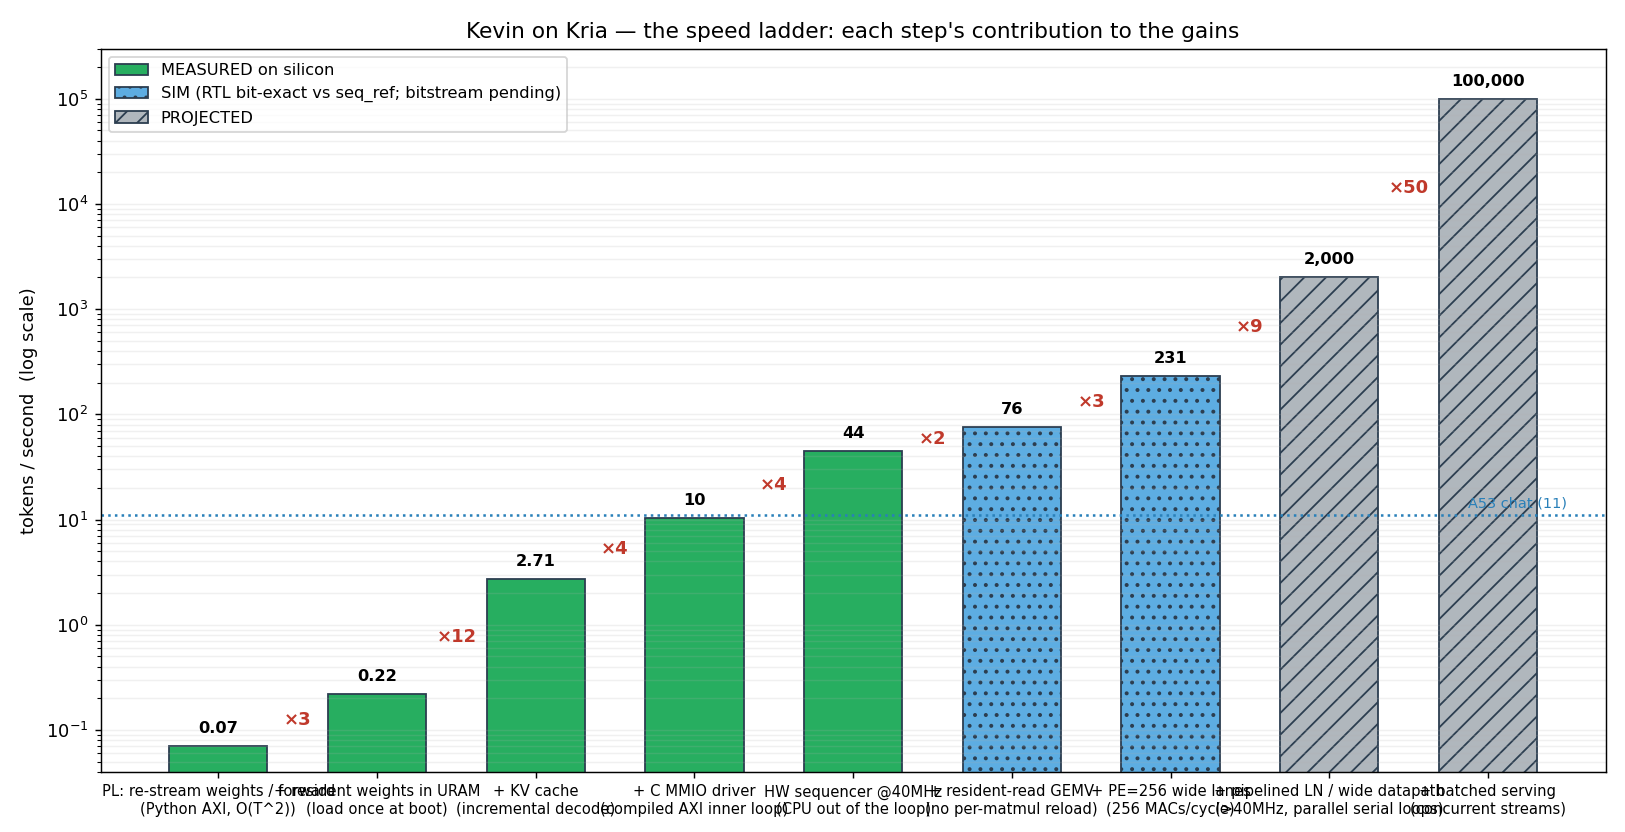
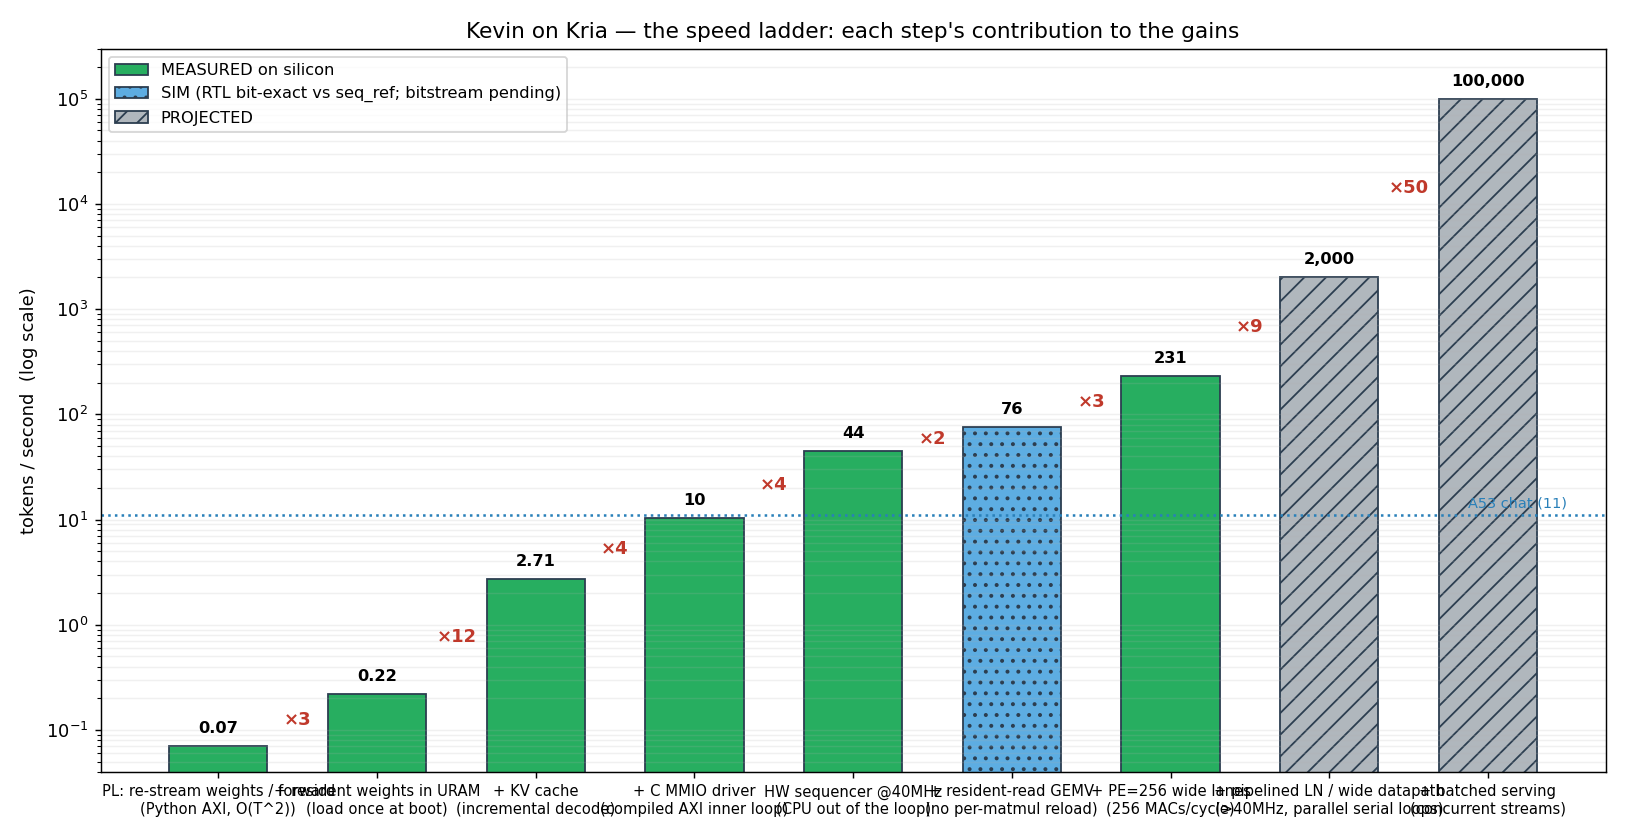
Stage 3 LEAP MEASURED: resident-read + PE=256 = 231 tok/s on silicon, bit-exact
The PE=256 resident-read sequencer (gemv_seqfast.bit.bin, IDCODE SQRF) runs on the KV260:
stream [47,1,53,42,46,38,1,53] = 'n time t', token-stream bit-exact to seq_ref, CYCLES
1,385,205 -> 231.01 tok/s @ 40 MHz, DETERMINISTIC 5/5 runs. Routed at 87.4% LUT, URAM
60/64, WNS +0.010 ns (razor-thin, held on silicon). 5.2x over the 44.32 baseline, ~21x the
A53 ~11 wall, CPU fully out of the loop.

progress ladder/graph: PE=256 rung flipped SIM -> MEASURED (green). BOARD-TEST.md gains
Test D (the leap bitstream + reload/run recipe). 0-master.md 'what is actually true' updated
to 231 tok/s. Path past 231 = pipeline the LayerNorm DSP cascade (Fmax limiter) + widen the
serial datapath (the modelled ~2k rung).

Changed region(s): [[0.6769, 0.4375, 0.7692, 0.9375]]

diff --git a/fabric/progress.py b/fabric/progress.py
@@ -33,7 +33,7 @@ LADDER = [
      "the A53 doing the non-matmul forward (the ~11 wall)"),
     ("+ resident-read GEMV\n(no per-matmul reload)", 75.8, "SIM",
      "re-streaming each matmul's weights (~42% of cycles)"),
-    ("+ PE=256 wide lanes\n(256 MACs/cycle)", 231.0, "SIM",
+    ("+ PE=256 wide lanes\n(256 MACs/cycle)", 231.0, "MEASURED",
      "the GEMV run phase (16x fewer group passes)"),
     ("+ pipelined LN / wide datapath\n(>40MHz, parallel serial loops)", 2000.0, "PROJECTED",
      "the LayerNorm DSP cascade (Fmax ~50->200MHz) + serial per-element loops"),
@@ -58,9 +58,10 @@ def print_table():
     print(f"\nreference: A53 char chat = {A53_CHAT:.0f} tok/s, A53 INT4 GEMV bench = "
           f"{A53_BENCH:.0f} tok/s (both MEASURED).")
     print("note: the C-driver rung (10.35) ~= the A53 chat (11) — CPU-in-loop asymptotes "
-          "to the A53; the HW sequencer (44.32, MEASURED, CPU OUT of the loop) is the leap "
-          "that beats it. Resident-read + PE=256 (75.8 / 231) are RTL bit-exact in sim; the "
-          "PE=256 bitstream is building. >40 MHz + wide serial datapath is the path to ~2k.")
+          "to the A53; the HW sequencer (CPU OUT of the loop) is the leap that beats it. "
+          "MEASURED on silicon, token-stream bit-exact, deterministic: 44.32 (baseline PE16) "
+          "-> 231.01 (resident-read + PE=256, 5/5 runs). >40 MHz (pipeline the LayerNorm DSP "
+          "cascade) + wide serial datapath is the scoped path to ~2k.")
 
 
 def plot(path):

diff --git a/0-master.md b/0-master.md
@@ -65,7 +65,7 @@ The honest core, so the project stands up.
 
 - **The double win is measurable.** The Keviniser compresses the corpus, probably to somewhere around 55 to 70 percent of the original tokens. That compression buys on-chip headroom, more effective context and vocabulary for a fixed budget, which raises throughput. So "few word do trick" is a logged efficiency result, not just a quote.
 - **The uplift is real but bounded.** Realistically tens of x on decode for a model sized to live fully on-chip, more if the Arm cores do less per token. Not 100x once orchestration is counted. I report the roofline crossover, the model size where the fabric stops winning because it too has to go to DDR. The crossover is as much the result as the peak.
-- **Where it stands on silicon (measured, not modelled).** The whole INT4 transformer now runs in fabric with the CPU out of the loop — the stage-3 sequencer. On the KV260 it generates a **token-stream-bit-exact** Kevin at **44.3 tok/s @ 40 MHz**, ~4× the optimised A53 (~11) wall and ~200× the first on-fabric run (0.22). The CPU-in-the-loop rungs (Python → resident weights → KV cache → C driver: 0.07 → 10.35) asymptote *to* the A53 — the architectural leap is taking it out of the loop. Resident-read and PE=256 widening are RTL bit-exact in sim (76 / 231 tok/s) with the wide bitstream building; the road past that is pipelining the LayerNorm DSP cascade and the serial datapath. The full ladder, tiered measured / sim / projected, is `fabric/progress.png`.
+- **Where it stands on silicon (measured, not modelled).** The whole INT4 transformer now runs in fabric with the CPU out of the loop — the stage-3 sequencer. On the KV260 it generates a **token-stream-bit-exact** Kevin, deterministically, at **231 tok/s @ 40 MHz** (resident-read GEMV + 256-wide lanes), up from **44.3** for the first sequencer build — ~21× the optimised A53 (~11) wall and ~1000× the first on-fabric run (0.22). The CPU-in-the-loop rungs (Python → resident weights → KV cache → C driver: 0.07 → 10.35) asymptote *to* the A53; the architectural leap is taking it out of the loop. The road past 231 is pipelining the LayerNorm DSP cascade (Fmax ~50 → ~200 MHz) and widening the serial datapath — the modelled ~2k rung. The full ladder, tiered measured / sim / projected, is `fabric/progress.png`.
 - **Where it loses, said up front.** Any model big enough to be DDR resident, long context once the KV cache spills, and far higher development effort than just running on the cores. All three stated out loud.
 - **The writeup rule.** Mischief in the title, dry in the body. The reason the RAG post landed was honesty, not swagger. At no point do I pretend the prose is good, the dumbness is deliberate, and the speed numbers carry the post on their own.
 

diff --git a/fabric/stage3/BOARD-TEST.md b/fabric/stage3/BOARD-TEST.md
@@ -104,6 +104,24 @@ ABORT if the clock is wrong — a tok/s number measured at the wrong clock is a 
 `pl_seq_diag.py` is the localiser that nailed it: MMIO-stability + load-vs-compute
 (GO ×N with no reload) + reload-determinism probes.
 
+## Test D — the LEAP bitstream: resident-read + PE=256 (on silicon, MEASURED ✅)
+`sequencer_fast` (whole INT4 image resident in the GEMV core's URAM, no per-matmul reload)
+widened to 256 MACs/cycle. Bitstream `~/kevbit/gemv_seqfast.bit.bin`, IDCODE `SQRF`
+(0x53515246), 40 MHz, **URAM 60/64, LUT 87.4%, WNS +0.010 ns** (closed razor-thin — the
+one thing to watch; if a future rebuild congests worse, drop the forced clock a few MHz).
+```
+sudo xmutil unloadapp ; sudo fpgautil -b ~/kevbit/gemv_seqfast.bit.bin
+cd ~/kevpl/plchat
+sudo ~/kevweb/venv/bin/python -m fabric.stage3.board.pl_seq_chat --lanes 256 \
+     --npz goformer.npz --meta goformer_meta.json --prompt "once upo"
+```
+The driver auto-detects via `--lanes 256`: streams SUBW=32 32-bit W_DATA chunks per
+1024-bit word, accepts the SQRF IDCODE, forces fclk0=40 MHz. **MEASURED:** stream
+`[47,1,53,42,46,38,1,53]` = `"n time t"`, CYCLES=1,385,205 → **231.01 tok/s @ 40 MHz**,
+`tokens_match=True`, **deterministic 5/5 runs** (the +10 ps margin held). 5.2× the 44.32
+baseline, ~21× the A53 ~11 wall, CPU fully out of the loop. The weight load is ~400k MMIO
+pokes (~3 s); a C/DMA loader would shrink that but it is one-time, not per-token.
+
 ## What this session will and won't show
 - **Will:** the fabric path goes from 0.22 → ~5–126 tok/s (finally beating the A53),
   measured, bit-identical Kevin output. The resident-banked design validated on silicon.
@@ -118,6 +136,6 @@ ABORT if the clock is wrong — a tok/s number measured at the wrong clock is a 
 | C + KV cache | ~10 | gcc build on board | MEASURED (10.35; A53-orchestration-bound) |
 | **single-stream dataflow (sequencer)** | **44.32** | sequencer bitstream @ 40 MHz, CPU out of loop | **MEASURED, bit-exact** |
 | + resident-read (sequencer_fast, PE=16) | ~76 | drop per-matmul weight reload | SIM bit-exact (527,616 cyc/tok) |
-| + PE=256 (sequencer_fast, LANES=256) | ~231 | 16-wide lanes on top of resident | SIM bit-exact (173,151 cyc/tok); OOC fit/Fmax pending |
-| + pipelined arith (>40 MHz) | ~2k (target) | pipeline 96-bit dequant / 64×64 act-quant; parallel serial datapath | RTL next |
+| **+ PE=256 (sequencer_fast, LANES=256)** | **231.01** | 16-wide lanes on top of resident | **MEASURED, bit-exact, 5/5 deterministic** (1,385,205 cyc; SQRF) |
+| + pipelined arith (>40 MHz) | ~2k (target) | pipeline the LayerNorm DSP cascade (Fmax ~50→200 MHz) + parallel serial datapath | RTL next |
 | batched serving | ~30–124k | + parallel non-linears + 3–4 GEMV engines | model proven; RTL TBD |
